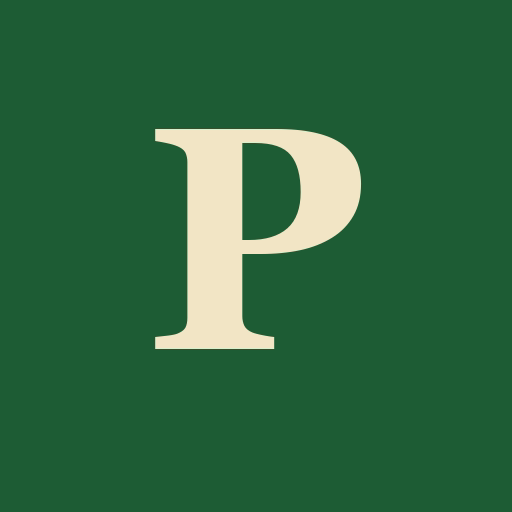
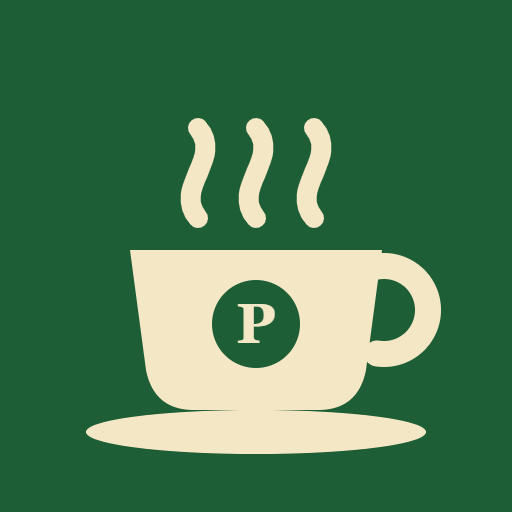
Un solo aviso (el del móvil), icono de taza y badge, títulos más claros

Changed region(s): [[0.1562, 0.2188, 0.875, 0.9062]]

diff --git a/public/index.html b/public/index.html
@@ -658,6 +658,7 @@
   const b64u = s => { const p = "=".repeat((4 - s.length % 4) % 4), b = atob((s + p).replace(/-/g,"+").replace(/_/g,"/")); return Uint8Array.from(b, c => c.charCodeAt(0)); };
   const lsGet = k => { try{ return localStorage.getItem(k); }catch(e){ return null; } };
   const lsSet = (k, v) => { try{ localStorage.setItem(k, v); }catch(e){} };
+  const pushOn = role => pushOK && Notification.permission === "granted" && lsGet("pushRole") === role;
   const pushOK = "serviceWorker" in navigator && "PushManager" in window && "Notification" in window;
   function markPush(role){ const b = $(role === "negocio" ? "pushNeg" : "pushCli"); if (b){ b.textContent = role === "negocio" ? "🔔 Avisos de solicitudes activados en este móvil" : "🔔 Avisos activados"; b.disabled = true; } }
   async function subscribe(role, test){
@@ -696,8 +697,8 @@
       const prev = st; ver = j.ver; st = j.state; st.reqs = st.reqs || []; st.avisos = st.avisos || [];
       if (!firstLoad){
         const newPend = st.reqs.filter(x => x.status === "pendiente" && !prev.reqs.some(p => p.id === x.id));
-        if (newPend.length && mode !== "cliente" && !$("vNeg").hidden) ding();
-        if (mode !== "negocio" && !$("vCli").hidden){
+        if (newPend.length && mode !== "cliente" && !$("vNeg").hidden && !pushOn("negocio")) ding();
+        if (mode !== "negocio" && !$("vCli").hidden && !pushOn("cliente")){   // con avisos del móvil activados, solo llega el del móvil
           const acc = st.reqs.find(x => x.status === "aceptada" && prev.reqs.some(p => p.id === x.id && p.status === "pendiente"));
           const rej = st.reqs.find(x => x.status === "rechazada" && prev.reqs.some(p => p.id === x.id && p.status === "pendiente"));
           const newAv = st.avisos.filter(a => !prev.avisos.some(p => p.id === a.id));

diff --git a/server.js b/server.js
@@ -46,7 +46,7 @@ function notify(role, msg){ for (const [ep, s] of subs) if (s.role === role){ s.
 function onNewState(prev, next){
   const pa = new Set(((prev && prev.avisos) || []).map(a => a.id)), pr = new Set(((prev && prev.reqs) || []).map(r => r.id));
   const avs = (next.avisos || []).filter(a => !pa.has(a.id));
-  if (prev && avs.length) notify("cliente", { title:"Parapapa", body:avs[avs.length-1].m, url:"/#cliente" });
+  if (prev && avs.length) { const m = avs[avs.length-1].m; notify("cliente", { title:/sello|café gratis|Tarjeta completa/i.test(m) ? "Tu tarjeta de cafés" : "Novedad de Parapapa", body:m, url:"/#cliente" }); }
   const rqs = (next.reqs || []).filter(r => r.status === "pendiente" && !pr.has(r.id));
   if (prev && rqs.length) notify("negocio", { title:"Nueva solicitud de sello", body:`☕ ${rqs[0].name} pide un sello. Toca para aceptarlo.`, url:"/#negocio" });
 }
@@ -65,7 +65,7 @@ http.createServer((req, res) => {
     const old = subs.get(b.sub.endpoint);
     subs.set(b.sub.endpoint, { sub:b.sub, role:b.role === "negocio" ? "negocio" : "cliente", msg:old ? old.msg : null });
     console.log("subscribe", b.role, new URL(b.sub.endpoint).host, "total", subs.size);
-    if (b.test) { subs.get(b.sub.endpoint).msg = { title:"Parapapa", body:"¡Avisos activados! Te avisaremos de tus sellos y ofertas ☕", url:b.role === "negocio" ? "/#negocio" : "/#cliente" }; push(b.sub.endpoint); }
+    if (b.test) { subs.get(b.sub.endpoint).msg = { title:"Avisos activados", body:"Te avisaremos de tus sellos y ofertas ☕", url:b.role === "negocio" ? "/#negocio" : "/#cliente" }; push(b.sub.endpoint); }
     send(res, 200, { ok:true });
   });
   if (url.pathname === "/api/pushmsg" && req.method === "POST") return readBody(req, b => {

diff --git a/public/sw.js b/public/sw.js
@@ -1,6 +1,6 @@
 // Service worker mínimo: permite instalar la tarjeta como app y la abre aunque no haya cobertura.
 // La página y los iconos se guardan; /api/state siempre va a la red (los sellos son en directo).
-const CACHE = "parapapa-v3";
+const CACHE = "parapapa-v4";
 
 // Aviso push: llega vacío y aquí se pide el texto al servidor para este móvil
 self.addEventListener("push", e => {
@@ -8,7 +8,7 @@ self.addEventListener("push", e => {
     fetch("/api/pushmsg", { method:"POST", headers:{ "Content-Type":"application/json" }, body:JSON.stringify({ endpoint: sub && sub.endpoint }) })
       .then(r => r.json()).catch(() => ({ title:"Parapapa", body:"Tienes novedades en tu tarjeta ☕", url:"/#cliente" }))
   ).then(m => self.registration.showNotification(m.title || "Parapapa", {
-    body:m.body, icon:"/icon-192.png", badge:"/icon-192.png", tag:"parapapa", renotify:true, vibrate:[60,40,60], data:{ url:m.url || "/#cliente" } })));
+    body:m.body, icon:"/icon-192.png", badge:"/badge-96.png", tag:"parapapa", renotify:true, vibrate:[60,40,60], data:{ url:m.url || "/#cliente" } })));
 });
 self.addEventListener("notificationclick", e => {
   e.notification.close();
@@ -19,7 +19,7 @@ self.addEventListener("notificationclick", e => {
     return self.clients.openWindow(url);
   }));
 });
-const SHELL = ["/", "/manifest.webmanifest", "/icon-192.png", "/icon-512.png", "/icon-180.png"];
+const SHELL = ["/", "/manifest.webmanifest", "/icon-192.png", "/icon-512.png", "/icon-180.png", "/badge-96.png"];
 
 self.addEventListener("install", e => { e.waitUntil(caches.open(CACHE).then(c => c.addAll(SHELL))); self.skipWaiting(); });
 self.addEventListener("activate", e => {
